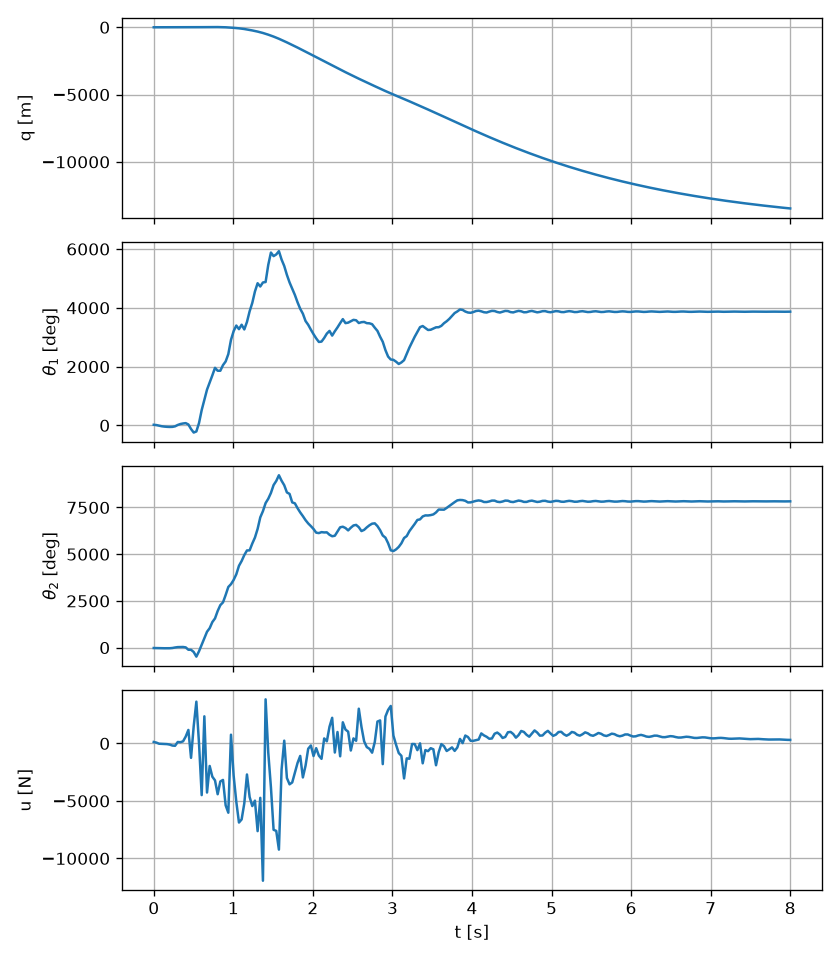
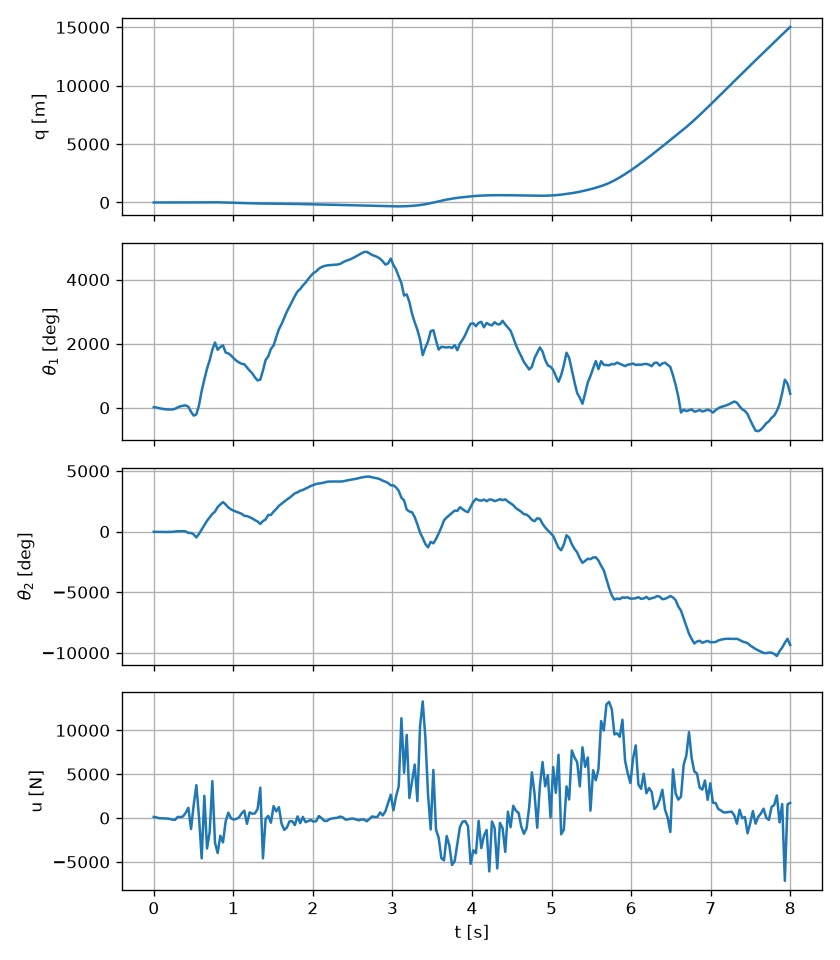
stavljena ispravna animacija i simulacija za pocetne kuteve (20,-20)

diff --git a/Simulacija&Animacija.py b/Simulacija&Animacija.py
@@ -65,7 +65,7 @@ def nonlinear_dynamics(t, x):
     yddot = np.linalg.solve(M, f)
     return [qd, th1d, th2d, yddot[0], yddot[1], yddot[2]]
 
-x0 = [0, np.deg2rad(10), np.deg2rad(-10), 0, 0, 0]
+x0 = [0, np.deg2rad(20), np.deg2rad(-20), 0, 0, 0]
 t_final = 8
 fps = 30
 t_eval = np.linspace(0, t_final, int(t_final*fps))
